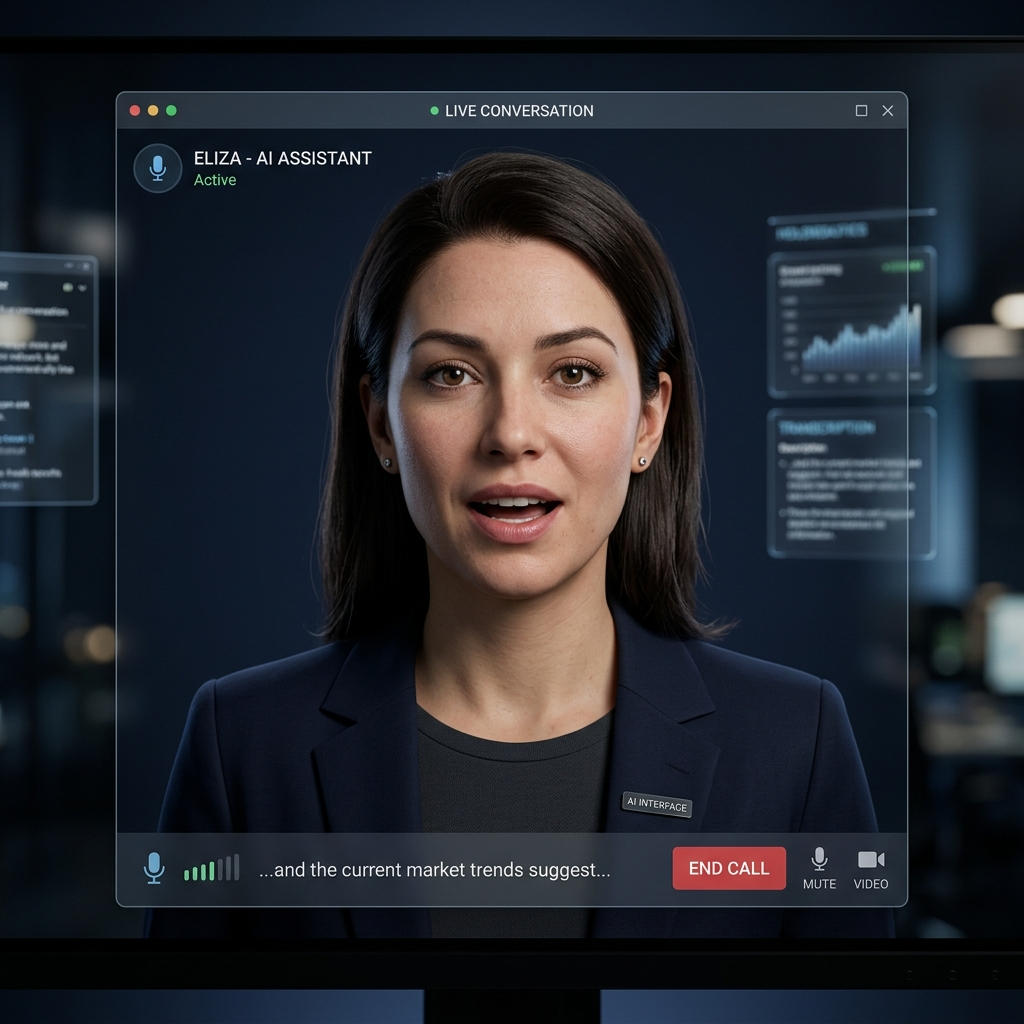
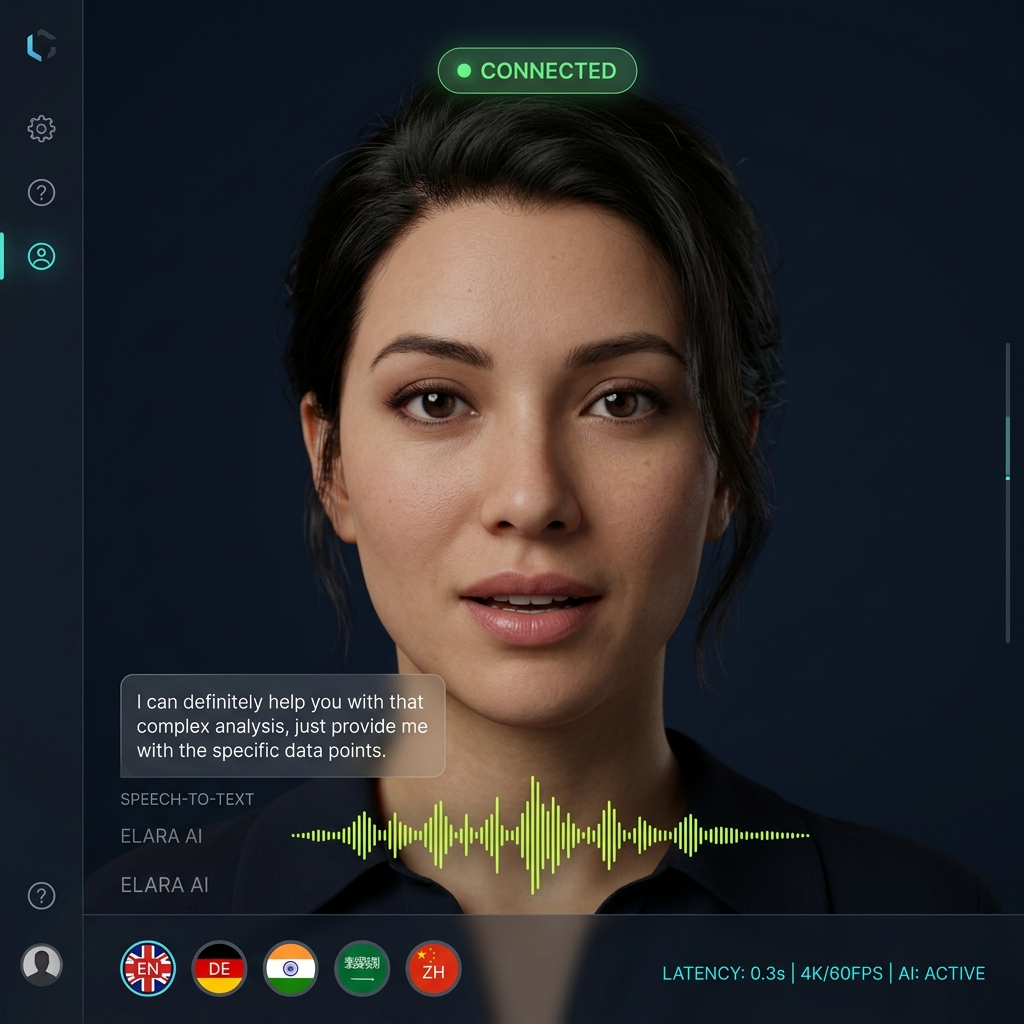
feat-digital-human-live-panel-metahuman-face-animated-overlays

diff --git a/src/app/services/[slug]/ServiceDetailClient.tsx b/src/app/services/[slug]/ServiceDetailClient.tsx
@@ -1,6 +1,6 @@
 'use client';
 
-import { useState } from 'react';
+import { useState, useEffect } from 'react';
 import Link from 'next/link';
 import Image from 'next/image';
 import { ChevronRight, ArrowLeft, ArrowRight, CheckCircle2 } from 'lucide-react';
@@ -94,13 +94,16 @@ export default function ServiceDetailClient({ svc }: Props) {
               </div>
             )}
 
+            {/* ── Digital Human live demo visual (only for digital-humans) ── */}
+            {svc.slug === 'digital-humans' && <DigitalHumanLivePanel />}
+
             <div>
               <h2 className="text-2xl font-bold text-[#0E202E] mb-6">Implementation Pipeline</h2>
               <ol className="space-y-5">
                 {svc.steps.map((step, i) => (
                   <li key={i} className="flex gap-5 p-5 bg-white rounded-xl border border-zinc-200">
                     <span className="w-8 h-8 rounded-full bg-[#0E202E]/10 text-[#0E202E] text-sm font-normal flex items-center justify-center flex-shrink-0 mt-0.5">
-                      {String(i + 1).padStart(2, '0')}
+                      {String(i + 1).padStart(2, '00')}
                     </span>
                     <div>
                       <p className="font-semibold text-[#0E202E]">{step.title}</p>
@@ -192,6 +195,97 @@ export default function ServiceDetailClient({ svc }: Props) {
 
       <Footer />
       <ServiceModal service={showModal ? modalService : null} onClose={() => setShowModal(false)} />
+    </div>
+  );
+}
+/* ── Digital Human Live Demo Panel ───────────────────────────── */
+function DigitalHumanLivePanel() {
+  const [wave, setWave] = useState([3,6,9,12,8,5,10,7,4,11,6,9,3,8,5]);
+  const [msgVisible, setMsgVisible] = useState(true);
+
+  useEffect(() => {
+    const iv = setInterval(() => {
+      setWave(w => w.map(() => Math.floor(Math.random() * 14) + 2));
+    }, 180);
+    const mv = setInterval(() => setMsgVisible(v => !v), 3200);
+    return () => { clearInterval(iv); clearInterval(mv); };
+  }, []);
+
+  const langs = ['EN','DE','HI','AR','ZH','+36'];
+
+  return (
+    <div className="rounded-2xl overflow-hidden border border-zinc-200 bg-[#0A1628] relative mb-10 shadow-xl">
+      {/* Window chrome */}
+      <div className="flex items-center gap-1.5 px-4 py-2.5 bg-[#0D1F35] border-b border-white/10">
+        <span className="w-3 h-3 rounded-full bg-red-500/80" />
+        <span className="w-3 h-3 rounded-full bg-yellow-500/80" />
+        <span className="w-3 h-3 rounded-full bg-green-500/80" />
+        <span className="ml-3 text-xs text-zinc-500 font-mono">86B · agent live</span>
+      </div>
+
+      {/* Main visual area */}
+      <div className="relative w-full aspect-video">
+        {/* Background — photorealistic digital human face */}
+        <Image
+          src="/svc_digital_human.png"
+          alt="Digital Human Agent"
+          fill
+          className="object-cover object-center"
+          unoptimized
+          priority
+        />
+        {/* Dark overlay for readability of overlays */}
+        <div className="absolute inset-0 bg-gradient-to-t from-[#0A1628]/90 via-[#0A1628]/30 to-transparent" />
+
+        {/* Connected badge */}
+        <div className="absolute top-4 left-4 flex items-center gap-1.5 bg-black/40 backdrop-blur-sm px-3 py-1 rounded-full border border-white/10">
+          <span className="w-2 h-2 rounded-full bg-emerald-400 animate-pulse" />
+          <span className="text-xs text-white font-mono">Connected · 0.3s · EN</span>
+        </div>
+
+        {/* Latency badge */}
+        <div className="absolute top-4 right-4 bg-[#29B6F6]/20 border border-[#29B6F6]/40 px-3 py-1 rounded-full">
+          <span className="text-xs text-[#29B6F6] font-bold font-mono">~0.3s latency</span>
+        </div>
+
+        {/* Waveform */}
+        <div className="absolute bottom-24 left-0 right-0 flex items-end justify-center gap-0.5 px-8 h-12">
+          {wave.map((h, i) => (
+            <div
+              key={i}
+              className="w-1.5 rounded-full bg-[#29B6F6]/80 transition-all duration-150"
+              style={{ height: `${h * 3}px` }}
+            />
+          ))}
+        </div>
+
+        {/* Chat bubble */}
+        <div
+          className={`absolute bottom-16 left-4 right-4 transition-opacity duration-700 ${
+            msgVisible ? 'opacity-100' : 'opacity-0'
+          }`}
+        >
+          <div className="bg-[#29B6F6]/20 border border-[#29B6F6]/30 backdrop-blur-sm rounded-xl px-4 py-2.5 max-w-xs">
+            <p className="text-xs text-white/90 leading-relaxed">
+              <span className="text-[#29B6F6] font-semibold">Agent: </span>
+              &ldquo;Namaste, I can help you with your account query — which product are you referring to?&rdquo;
+            </p>
+          </div>
+        </div>
+
+        {/* Language chips */}
+        <div className="absolute bottom-4 left-0 right-0 flex items-center justify-center gap-1.5">
+          {langs.map((l) => (
+            <span key={l} className="px-2 py-0.5 rounded text-[10px] font-bold bg-white/10 border border-white/20 text-white/80">{l}</span>
+          ))}
+        </div>
+      </div>
+
+      {/* Footer */}
+      <div className="px-5 py-2.5 bg-[#0D1F35] border-t border-white/10 flex items-center justify-between">
+        <span className="text-[10px] text-zinc-500 font-mono">Real-time conversational AI · Private VPC deployment</span>
+        <span className="w-2 h-2 rounded-full bg-emerald-400 animate-pulse" />
+      </div>
     </div>
   );
 }